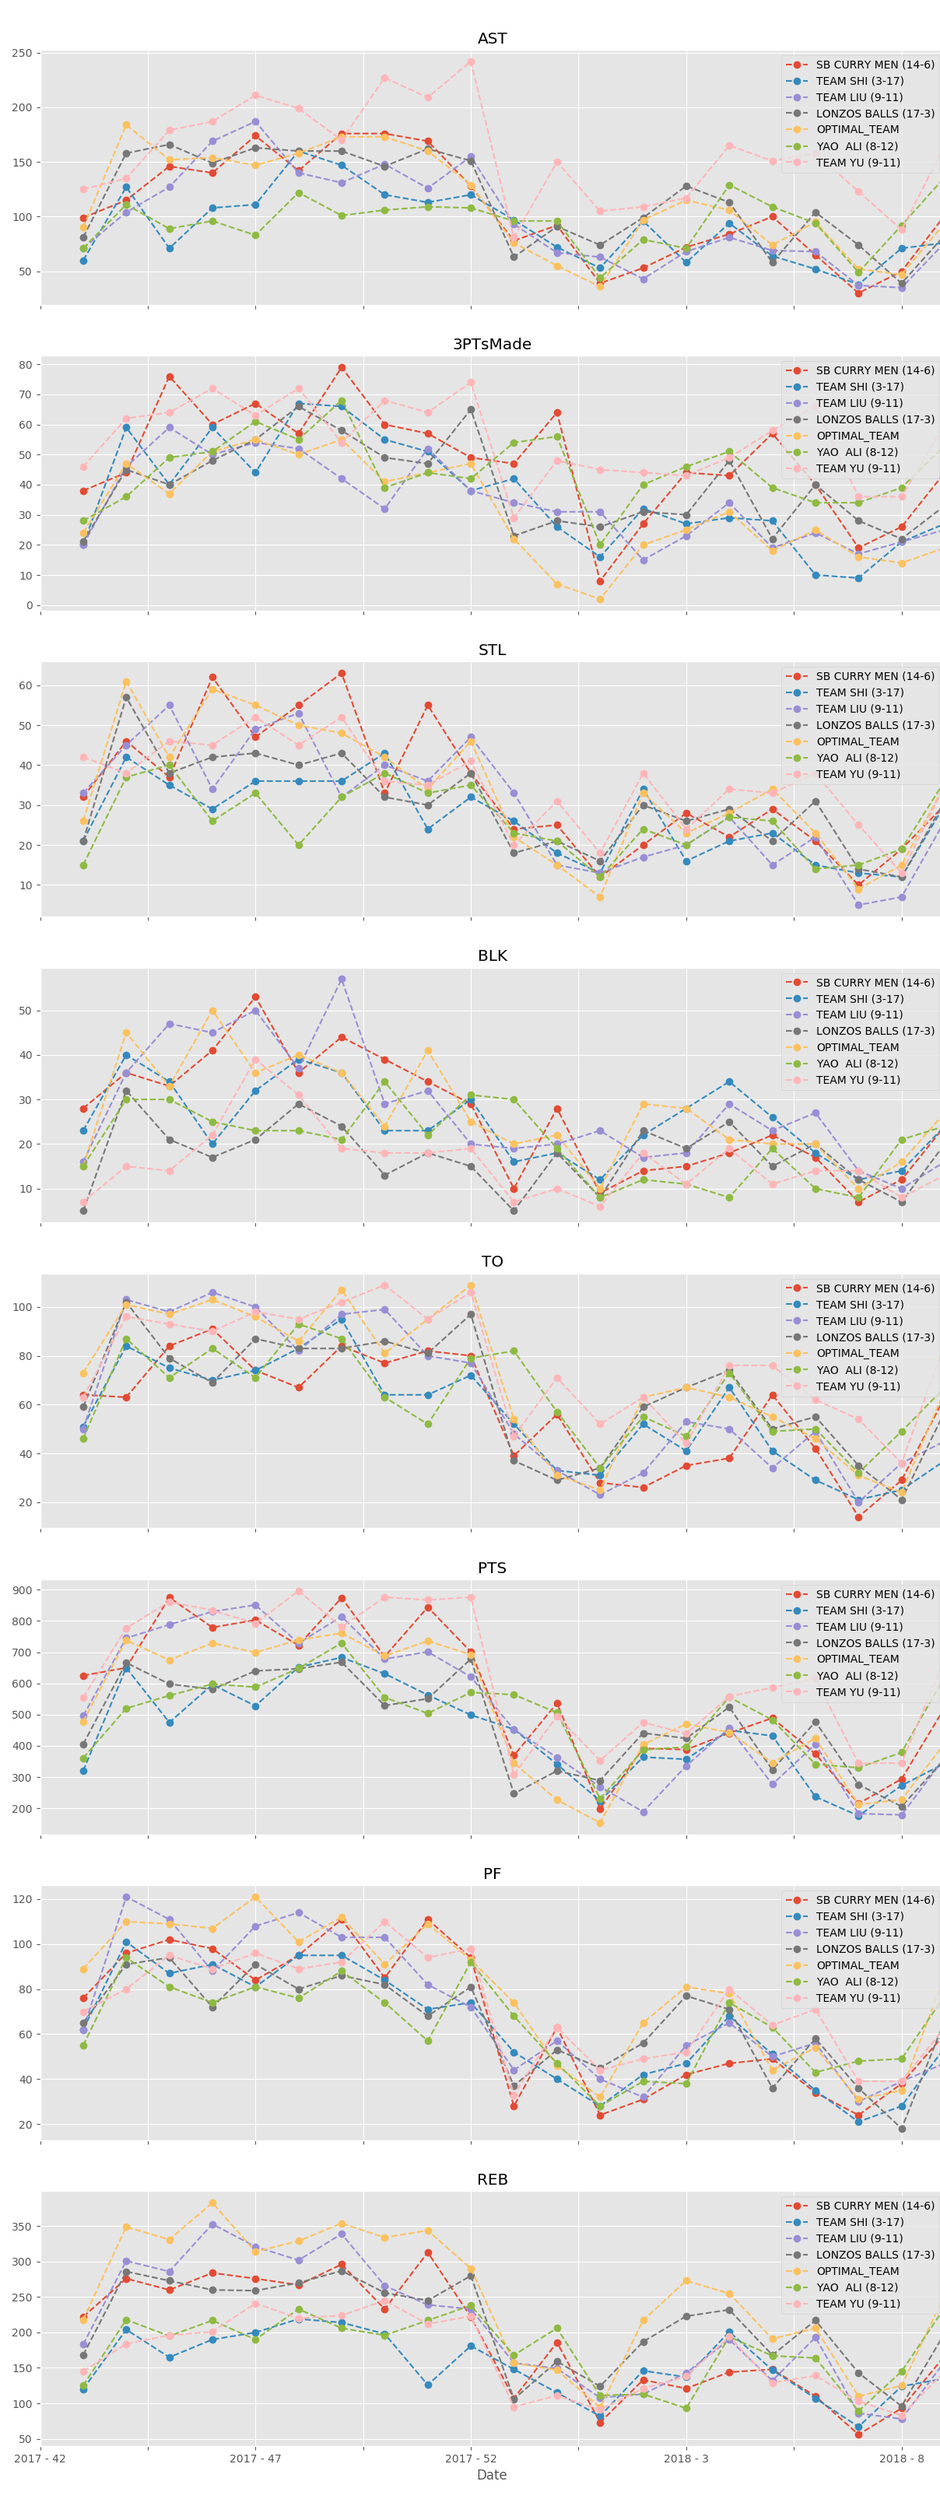
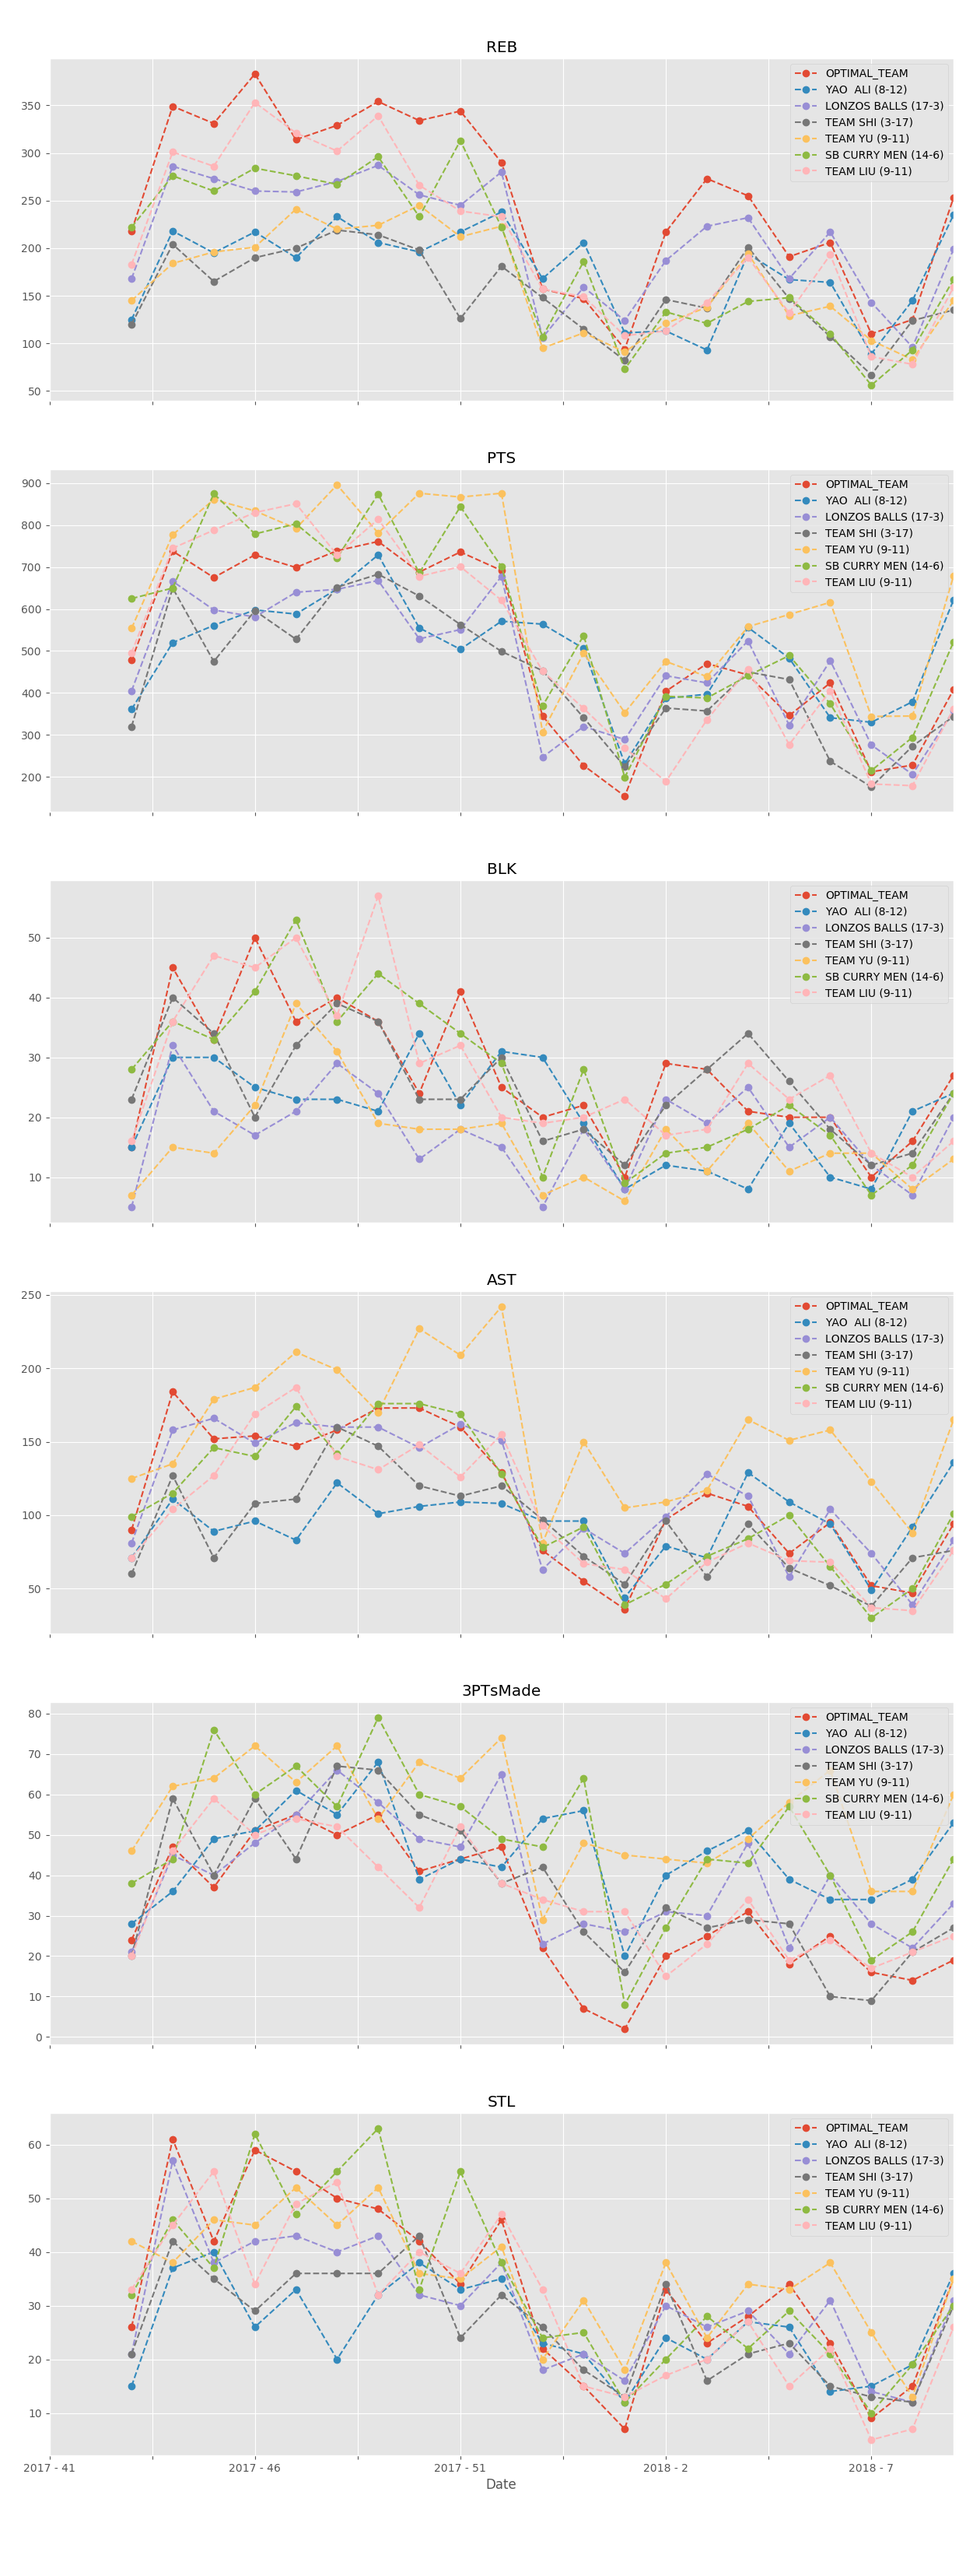
update readme

diff --git a/README.md b/README.md
@@ -108,6 +108,8 @@ Note: x-axis format is YEAR-WEEK
 
 ![Alt text](/images/2018_comparison.png)<br />
 
+A cursury glance at these plots for this particular scenario shows a couple insights. First, the algorithm seems to favor REBs the most, as the OPTIMAL_TEAM generally has the highest or second highest REB count throughout all the weeks. STLs, ASTs, and PTs fare decently well, usually coming in between 2nd and 4th place. However, 3PTsMade is a category that the algorithm seems to "punt", or give up on, as OPTIMAL_TEAM generally comes close to last place. This could be for many reasons: one of which could be that our algorithm finds REBs to be a reliable stat to focus on. However, big rebounders generally don't shoot as many threes (e.g. DeMarcus Cousins, Dwight Howard, Hasan Whiteside, Andre Drummond). 
+
 
 
 ## NOTES: 
